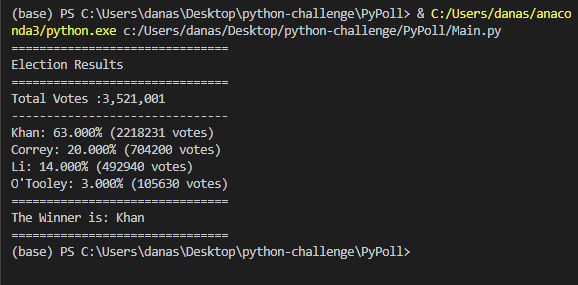
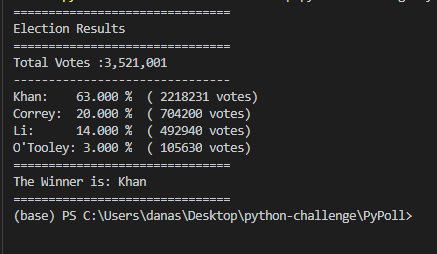
Update files

Changed region(s): [[0.0, 0.0, 1.0, 1.0]]

diff --git a/PyPoll/Main.py b/PyPoll/Main.py
@@ -47,13 +47,16 @@ with open(file, newline="") as csvfile:
     e = (c[1:4])
     f = (c[4:7])
 
-votes.sort(reverse=True)
-
+#Sorting in descending order of votes
 for i in range(len(uniquecandidate)):
-    result = zip(uniquecandidate, votes, votepct) # zips lists together
+    result = zip(uniquecandidate, votes, votepct) # zips lists together for sorting
 result_list = list(result)
 
 result_list.sort(key=lambda x: x[1], reverse=True) # want to sort by vote number
+
+name_elements = [name[0] for name in result_list]  #sorted name list by vote
+vote_elements = [vote1[1] for vote1 in result_list]  #sorted vote list by vote
+pct_elements = [pct[2] for pct in result_list]     #sorted percent list by vote
 
 # Print to terminal 
 print("===============================")
@@ -61,14 +64,16 @@ print("Election Results")
 print("===============================")
 print("Total Votes :" + str(d) +","+ str(e)+"," +str(f))    
 print("-------------------------------")
-for i in range(len(uniquecandidate)):
-    print(uniquecandidate[i] + ": " + "{:.3f}".format(votepct[i]) +"% (" + str(votes[i])+ " votes)")
+print("Khan:   ","{:.3f}".format(pct_elements[0]),"%  (",vote_elements[0],"votes)")
+print("Correy: ","{:.3f}".format(pct_elements[1]),"%  (",vote_elements[1],"votes)")
+print("Li:     ","{:.3f}".format(pct_elements[2]),"%  (",vote_elements[2],"votes)")
+print("O'Tooley:","{:.3f}".format(pct_elements[3]),"%  (",vote_elements[3],"votes)")
 print("===============================")
 print("The Winner is: " + winner)
 print("===============================")
 
 # Print to text file
-with open('election_results.txt', 'w') as text:
+with open("election_results.txt", 'w') as text:
     text.write("================================\n")
     text.write("Election Results\n")
     text.write("================================\n")
